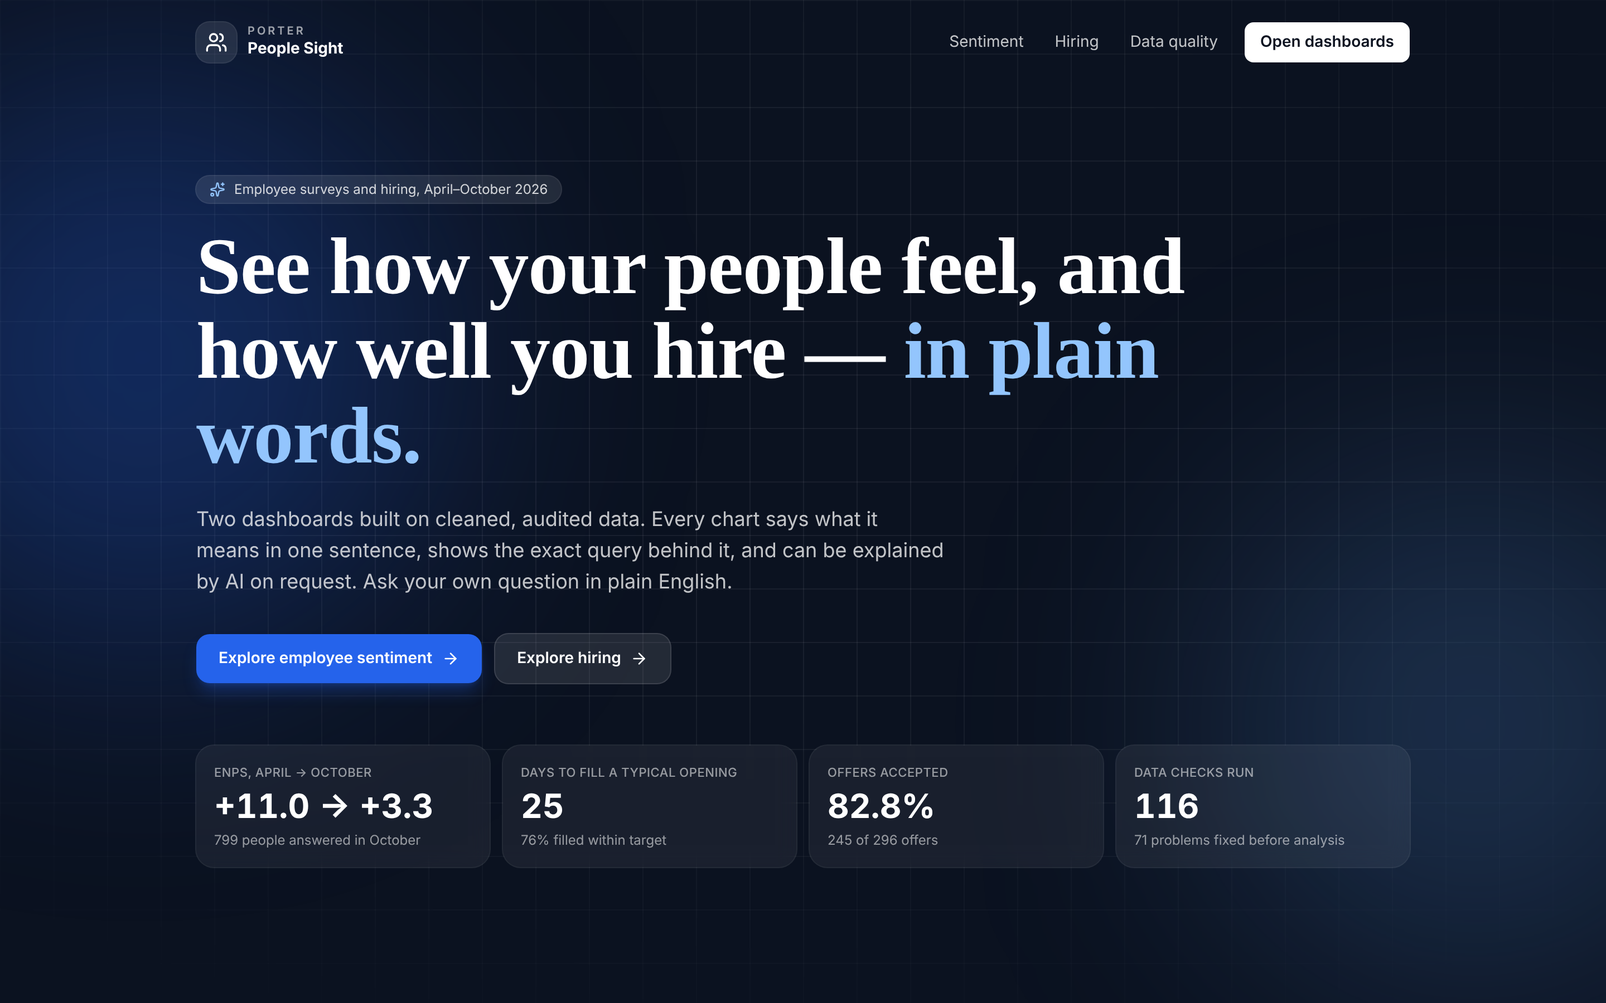
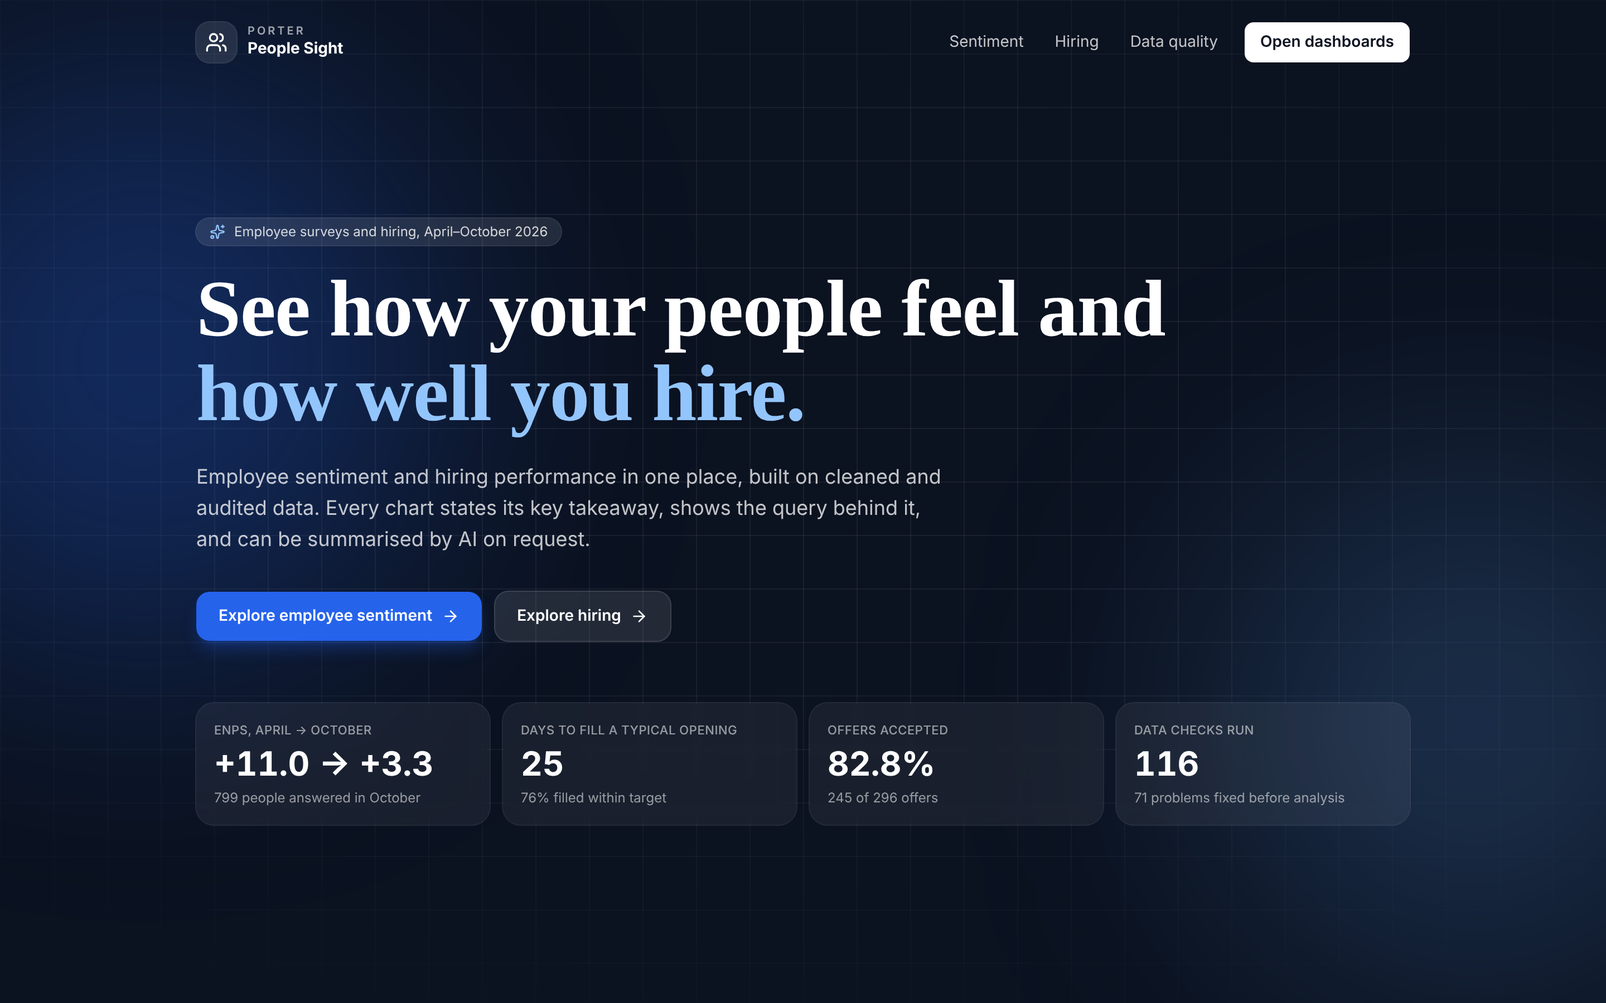
Copy: remove em dashes and repeated plain-language wording; refresh screenshots

diff --git a/frontend/src/pages/Landing.jsx b/frontend/src/pages/Landing.jsx
@@ -57,11 +57,11 @@ export default function Landing() {
               <Sparkles className="h-3.5 w-3.5 text-[#93C5FD]" /> Employee surveys and hiring, April–October 2026
             </motion.div>
             <motion.h1 variants={item} className="font-display max-w-4xl text-[40px] font-semibold leading-[1.05] sm:text-6xl lg:text-7xl">
-              See how your people feel, and how well you hire — <span className="text-[#93C5FD]">in plain words.</span>
+              See how your people feel and <span className="text-[#93C5FD]">how well you hire.</span>
             </motion.h1>
             <motion.p variants={item} className="mt-6 max-w-2xl text-base leading-7 text-white/75 sm:text-lg">
-              Two dashboards built on cleaned, audited data. Every chart says what it means in one sentence, shows the exact
-              query behind it, and can be explained by AI on request. Ask your own question in plain English.
+              Employee sentiment and hiring performance in one place, built on cleaned and audited data. Every chart states its
+              key takeaway, shows the query behind it, and can be summarised by AI on request.
             </motion.p>
             <motion.div variants={item} className="mt-8 flex flex-wrap gap-3">
               <Link to="/sentiment" className="group inline-flex items-center gap-2 rounded-xl bg-[#2563EB] px-5 py-3 text-sm font-semibold shadow-lg shadow-[#2563EB]/30 hover:bg-[#1D4ED8]">
@@ -88,10 +88,10 @@ export default function Landing() {
       {/* ── findings ─────────────────────────────────────────────────────── */}
       <section className="mx-auto max-w-6xl px-5 py-20 sm:px-8">
         <FadeIn>
-          <div className="text-xs font-semibold uppercase tracking-[0.18em] text-accent">What the data says</div>
-          <h2 className="font-display mt-2 max-w-3xl text-3xl font-semibold leading-tight sm:text-4xl">The findings, without the jargon</h2>
+          <div className="text-xs font-semibold uppercase tracking-[0.18em] text-accent">Key findings</div>
+          <h2 className="font-display mt-2 max-w-3xl text-3xl font-semibold leading-tight sm:text-4xl">What the data shows</h2>
           <p className="mt-3 max-w-2xl text-sm leading-6 text-muted">
-            Written by code from the same data as the dashboards, so they always match. Open a dashboard to see the evidence behind each one.
+            Generated from the same data as the dashboards, so they always match. Open a dashboard to see the evidence behind each one.
           </p>
         </FadeIn>
         {home.loading && !home.data ? (
@@ -122,12 +122,12 @@ export default function Landing() {
         <div className="mx-auto max-w-6xl px-5 py-20 sm:px-8">
           <FadeIn>
             <div className="text-xs font-semibold uppercase tracking-[0.18em] text-accent">How it works</div>
-            <h2 className="font-display mt-2 text-3xl font-semibold leading-tight sm:text-4xl">Numbers you can check, words you can use</h2>
+            <h2 className="font-display mt-2 text-3xl font-semibold leading-tight sm:text-4xl">Built to be trusted and easy to act on</h2>
           </FadeIn>
           <Stagger className="mt-10 grid gap-4 md:grid-cols-3">
             {[
               { icon: ShieldCheck, t: 'Cleaned and audited', d: `${isNum(h.rules) ? fmtInt(h.rules) : 'Every'} checks ran on the raw spreadsheets before any number was calculated. Every fix is logged.`, to: '/data-quality', cta: 'See what we fixed' },
-              { icon: Lightbulb, t: 'Explained in one sentence', d: 'Each chart opens with what it shows. Want more? “What does this chart say?” gives a short AI explanation from the same numbers.', to: '/sentiment', cta: 'Open a dashboard' },
+              { icon: Lightbulb, t: 'Clear takeaways', d: 'Each chart opens with its key takeaway. “What does this chart say?” adds a short AI summary based on the same numbers.', to: '/sentiment', cta: 'Open a dashboard' },
               { icon: Code2, t: 'Fully transparent', d: 'Every chart shows the exact SQL behind it, and small groups (under 5 people) are hidden to protect anonymity.', to: '/hiring', cta: 'Try it on hiring' },
             ].map((c) => (
               <motion.div key={c.t} variants={item} className="card flex flex-col p-6">
@@ -146,7 +146,7 @@ export default function Landing() {
                 <div>
                   <h3 className="text-lg font-semibold">Ask the data a question</h3>
                   <p className="mt-1 max-w-xl text-sm leading-6 text-white/70">
-                    “Which teams are least positive?” “How long does hiring take by grade?” Get a chart, a one-line explanation and the query — read-only, and survey answers stay anonymous.
+                    “Which teams are least positive?” “How long does hiring take by grade?” Get a chart, a one-line summary and the query behind it. Queries are read-only and survey answers stay anonymous.
                   </p>
                 </div>
               </div>

diff --git a/frontend/src/pages/Hiring.jsx b/frontend/src/pages/Hiring.jsx
@@ -17,8 +17,8 @@ import {
   agingOption, funnelOption, interviewersOption, monthLabel, monthlyOption, offersOption, stageTimeOption, ttfGradeOption,
 } from './hiringCharts';
 
-const days = (v) => (isNum(v) ? `${Number.isInteger(v) ? v : v.toFixed(1)} d` : '—');
-const inr = (v) => (isNum(v) && v > 0 ? `₹${Math.round(v).toLocaleString('en-IN')}` : '—');
+const days = (v) => (isNum(v) ? `${Number.isInteger(v) ? v : v.toFixed(1)} d` : '–');
+const inr = (v) => (isNum(v) && v > 0 ? `₹${Math.round(v).toLocaleString('en-IN')}` : '–');
 
 export default function Hiring() {
   const { filters, drill } = useFilters();
@@ -60,7 +60,7 @@ export default function Hiring() {
     const d = offSum.data?.find((r) => r.outcome === 'Declined');
     if (!a || !d) return null;
     return `Median offered ÷ expected CTC: accepted ${a.median_offer_to_expected.toFixed(2)} (n = ${fmtInt(a.n)}) vs declined ${d.median_offer_to_expected.toFixed(2)} (n = ${fmtInt(d.n)}). `
-      + `Median offered ÷ budget max: ${a.median_offer_to_budget.toFixed(2)} vs ${d.median_offer_to_budget.toFixed(2)} — offers sit well under budget.`;
+      + `Median offered ÷ budget max: ${a.median_offer_to_budget.toFixed(2)} vs ${d.median_offer_to_budget.toFixed(2)}. Offers sit well under budget.`;
   })();
 
   return (
@@ -149,7 +149,7 @@ export default function Hiring() {
         <Panel className="lg:col-span-12" title="Recruiters: fair comparison per assigned req, plus attainment vs target" height={0}
           subtitle="Compare recruiters on the per-req columns (filled %, median TTF, % within SLA, accepted offers per req). Attainment = accepted offers per month (Apr–Oct, 7 months) ÷ monthly target, shown counting all accepted offers and excluding backed-out candidates. Click a row to filter."
           n={fair.n} insightRows={fair.data} takeaway={fair.takeaway} nLabel="n reqs" sql={fair.sql} loading={fair.loading || attain.loading} error={fair.error || attain.error} empty={empty(fair)}
-          footer={<p className="mt-2 text-[11px] leading-4 text-muted"><b>Note:</b> attainment depends on how many reqs a recruiter is given — a recruiter with few reqs cannot reach a fixed monthly offer target, so low attainment can mean low load rather than low performance.</p>}>
+          footer={<p className="mt-2 text-[11px] leading-4 text-muted"><b>Note:</b> attainment depends on how many reqs a recruiter is given; a recruiter with few reqs cannot reach a fixed monthly offer target, so low attainment can mean low load rather than low performance.</p>}>
           {() => fair.data && (
             <DataTable rows={recruiterRows} dense rowKey={(r) => r.recruiter} onRowClick={(r) => drill({ recruiter: r.recruiter })}
               defaultSort={{ key: 'reqs_assigned', dir: 'desc' }}
@@ -160,7 +160,7 @@ export default function Hiring() {
                 { key: 'median_ttf_days', label: 'Median TTF', headWidth: 64, align: 'right', format: days },
                 { key: 'pct_filled_within_sla', label: 'Filled within SLA', headWidth: 72, align: 'right', format: (v) => fmtPct(v) },
                 { key: 'open_past_sla', label: 'Open past SLA', headWidth: 64, align: 'right', format: fmtInt },
-                { key: 'accepted_per_assigned_req', label: 'Accepted offers per req', headWidth: 84, align: 'right', format: (v) => (isNum(v) ? v.toFixed(2) : '—') },
+                { key: 'accepted_per_assigned_req', label: 'Accepted offers per req', headWidth: 84, align: 'right', format: (v) => (isNum(v) ? v.toFixed(2) : '–') },
                 { key: 'monthly_offer_target', label: 'Target per month', headWidth: 64, align: 'right', format: fmtInt },
                 { key: 'attainment_all_pct', label: 'Attainment (all accepted)', headWidth: 96, align: 'right', format: (v) => fmtPct(v), bar: { max: 100, color: p.accent } },
                 { key: 'attainment_excl_bo_pct', label: 'Attainment (excl. backed out)', headWidth: 96, align: 'right', format: (v) => fmtPct(v) },

diff --git a/frontend/src/pages/sentimentCharts.js b/frontend/src/pages/sentimentCharts.js
@@ -29,7 +29,7 @@ export function dumbbellOption(rows, p, { mobile }) {
         return tipHead(r.segment)
           + tipRow('April eNPS', `${scoreOr(r.enps_apr, r.suppressed_apr)} (n = ${fmtInt(r.n_apr)})`)
           + tipRow('October eNPS', `${scoreOr(r.enps_oct, r.suppressed_oct)} (n = ${fmtInt(r.n_oct)})`)
-          + tipRow('Change', isNum(r.enps_change) ? `${fmtSigned(r.enps_change)} pts` : '—')
+          + tipRow('Change', isNum(r.enps_change) ? `${fmtSigned(r.enps_change)} pts` : '–')
           + tipRow('Response rate Apr / Oct', `${fmtPct(r.response_rate_apr_pct)} / ${fmtPct(r.response_rate_oct_pct)}`)
           + (low(r) ? lowNote : '') + '<div style="margin-top:4px;opacity:.6;font-size:11px">Click to drill down</div>';
       },
@@ -94,9 +94,9 @@ export function driversOption(rows, p, { mobile }) {
       formatter: (prm) => {
         const r = prm.data.r;
         if (!r) return '';
-        return tipHead(`${DRIVER_LABEL(r)} — ${prm.seriesName}`)
+        return tipHead(`${DRIVER_LABEL(r)} · ${prm.seriesName}`)
           + tipRow('% favourable (4–5)', scoreOr(r.pct_favourable, r.suppressed, fmtPct))
-          + tipRow('Mean score (1–5)', scoreOr(r.mean_score, r.suppressed, (v) => (isNum(v) ? v.toFixed(2) : '—')))
+          + tipRow('Mean score (1–5)', scoreOr(r.mean_score, r.suppressed, (v) => (isNum(v) ? v.toFixed(2) : '–')))
           + tipRow('n answering', fmtInt(r.n));
       },
     },
@@ -189,7 +189,7 @@ export function themesOption(rows, p) {
       formatter: (prm) => {
         const r = prm.data.r;
         if (!r) return '';
-        return tipHead(`${r.theme} — ${prm.seriesName}`) + tipRow('% of respondents', scoreOr(r.pct_of_respondents, r.suppressed, fmtPct))
+        return tipHead(`${r.theme} · ${prm.seriesName}`) + tipRow('% of respondents', scoreOr(r.pct_of_respondents, r.suppressed, fmtPct))
           + tipRow('Comments', r.suppressed ? 'n&lt;5' : fmtInt(r.comments)) + tipRow('Respondents (n)', fmtInt(r.n));
       },
     },
@@ -220,7 +220,7 @@ export function mixOption(rows, p) {
       formatter: (ps) => {
         const r = ps[0].data.r;
         if (r.suppressed) return tipHead(ps[0].axisValue) + `n&lt;5 (n = ${r.n})`;
-        return tipHead(`${ps[0].axisValue} — eNPS ${fmtSigned(r.enps)}`) + tipRow('Promoters (9–10)', fmtPct(r.pct_promoters))
+        return tipHead(`${ps[0].axisValue} · eNPS ${fmtSigned(r.enps)}`) + tipRow('Promoters (9–10)', fmtPct(r.pct_promoters))
           + tipRow('Passives (7–8)', fmtPct(r.pct_passives)) + tipRow('Detractors (0–6)', fmtPct(r.pct_detractors))
           + tipRow('Respondents (n)', fmtInt(r.n)) + tipRow('Response rate', fmtPct(r.response_rate_pct)) + (r.low_response ? lowNote : '');
       },
@@ -272,9 +272,9 @@ export function nonResponseOption(rows, p, { mobile }) {
       trigger: 'axis', axisPointer: { type: 'shadow' },
       formatter: (ps) => {
         const r = byName[ps[0].axisValue];
-        return tipHead(`${r.segment} — April eNPS`) + tipRow('Answered October', `${scoreOr(r.apr_enps_oct_respondents, r.n_oct_respondents < 5)} (n = ${fmtInt(r.n_oct_respondents)})`)
+        return tipHead(`${r.segment} · April eNPS`) + tipRow('Answered October', `${scoreOr(r.apr_enps_oct_respondents, r.n_oct_respondents < 5)} (n = ${fmtInt(r.n_oct_respondents)})`)
           + tipRow('Skipped October', `${scoreOr(r.apr_enps_oct_nonrespondents, r.n_oct_nonrespondents < 5)} (n = ${fmtInt(r.n_oct_nonrespondents)})`)
-          + tipRow('Gap (skipped − answered)', isNum(r.gap_nonresp_minus_resp) ? `${fmtSigned(r.gap_nonresp_minus_resp)} pts` : '—')
+          + tipRow('Gap (skipped − answered)', isNum(r.gap_nonresp_minus_resp) ? `${fmtSigned(r.gap_nonresp_minus_resp)} pts` : '–')
           + tipRow('October response rate', fmtPct(r.oct_response_rate_pct)) + (r.low_response ? lowNote : '');
       },
     },

diff --git a/frontend/src/components/AskPanel.jsx b/frontend/src/components/AskPanel.jsx
@@ -10,7 +10,7 @@ import SqlBlock from './SqlBlock';
 import { fmtInt, isNum } from '../lib/format';
 
 /**
- * Ask the Data — slide-in panel.
+ * Ask the Data: slide-in panel.
  * The question goes to POST /api/ask; the backend writes and validates ONE read-only SQL query and runs it.
  * The panel shows the chart Groq specified, the explanation, the exact SQL and the rows.
  */
@@ -82,7 +82,7 @@ export default function AskPanel({ open, onClose }) {
             <div>
               <h2 className="text-sm font-semibold">Ask the data</h2>
               <p className="text-[11px] text-muted">
-                {status == null ? 'Checking…' : status.available ? `Plain English → SQL → chart · ${status.model}` : 'Needs a Groq API key'}
+                {status == null ? 'Checking…' : status.available ? `Question → SQL → chart · ${status.model}` : 'Needs a Groq API key'}
               </p>
             </div>
           </div>
@@ -171,7 +171,7 @@ export default function AskPanel({ open, onClose }) {
                   {res.data.length > 0 && (
                     <DataTable dense maxHeight={240} rows={res.data}
                       columns={res.columns.map((c) => ({ key: c, label: c, align: res.data.some((r) => isNum(r[c])) ? 'right' : 'left',
-                        format: (v, r) => (v == null ? (r.suppressed ? <span className="text-muted">n&lt;5</span> : '—') : typeof v === 'boolean' ? String(v) : isNum(v) ? v.toLocaleString('en-IN', { maximumFractionDigits: 2 }) : String(v)) }))} />
+                        format: (v, r) => (v == null ? (r.suppressed ? <span className="text-muted">n&lt;5</span> : '–') : typeof v === 'boolean' ? String(v) : isNum(v) ? v.toLocaleString('en-IN', { maximumFractionDigits: 2 }) : String(v)) }))} />
                   )}
                 </>
               )}

diff --git a/frontend/src/pages/hiringCharts.js b/frontend/src/pages/hiringCharts.js
@@ -5,7 +5,7 @@ const tipRow = (label, value) => `<div style="display:flex;justify-content:space
 const tipHead = (t) => `<div style="font-weight:600;margin-bottom:4px">${t}</div>`;
 const MONTHS = { '01': 'Jan', '02': 'Feb', '03': 'Mar', '04': 'Apr', '05': 'May', '06': 'Jun', '07': 'Jul', '08': 'Aug', '09': 'Sep', '10': 'Oct', '11': 'Nov', '12': 'Dec' };
 export const monthLabel = (m) => (m ? `${MONTHS[m.slice(5, 7)]} ${m.slice(2, 4)}` : '');
-const days = (v) => (isNum(v) ? `${Number.isInteger(v) ? v : v.toFixed(1)} d` : '—');
+const days = (v) => (isNum(v) ? `${Number.isInteger(v) ? v : v.toFixed(1)} d` : '–');
 
 /** (1) Monthly: reqs raised (bars) vs offers accepted and joins (lines). */
 export function monthlyOption(rows, p) {
@@ -141,7 +141,7 @@ export function offersOption(rows, p) {
       formatter: (prm) => {
         const r = rows[prm.dataIndex];
         return tipHead(`Offered ÷ expected CTC ${r.ratio_band}`) + tipRow('Declined', `${fmtPct(r.decline_rate_pct)} (${fmtInt(r.declined)} of ${fmtInt(r.offers)})`)
-          + tipRow('Accepted', fmtInt(r.accepted)) + tipRow('Median offer ÷ budget max', isNum(r.median_offer_to_budget) ? r.median_offer_to_budget.toFixed(2) : '—');
+          + tipRow('Accepted', fmtInt(r.accepted)) + tipRow('Median offer ÷ budget max', isNum(r.median_offer_to_budget) ? r.median_offer_to_budget.toFixed(2) : '–');
       },
     },
     xAxis: { type: 'category', data: rows.map((r) => r.ratio_band), name: 'Offered CTC ÷ candidate’s expected CTC', nameLocation: 'middle', nameGap: 26 },

diff --git a/frontend/src/components/Panel.jsx b/frontend/src/components/Panel.jsx
@@ -10,7 +10,7 @@ import { FadeIn } from '../lib/motion';
 export const CHART_H = 300;
 
 /**
- * Chart card. Shows: title + plain-language subtitle, a "What this shows" sentence written by the backend from the
+ * Chart card. Shows: title + subtitle, a "What this shows" sentence written by the backend from the
  * same rows (always available, no AI), an optional "What does this chart say?" AI explanation (only when Groq is
  * configured; written only from the rows shown), n badge, Show SQL, enlarge, and loading / error / empty states.
  * `children` may be a function (height) => node so the same chart can render inside the zoom modal.
@@ -73,7 +73,7 @@ export default function Panel({
             {canExplain && (
               <button onClick={explain} disabled={aiLoading}
                 className="flex items-center gap-1 rounded-full border border-accent/40 bg-accent-soft px-2.5 py-0.5 text-[11px] font-medium text-accent hover:border-accent disabled:opacity-60"
-                title="Get a plain-English explanation of this chart">
+                title="Get a short summary of this chart">
                 <Sparkles className="h-3 w-3" /> What does this chart say?
               </button>
             )}

diff --git a/frontend/src/lib/format.js b/frontend/src/lib/format.js
@@ -1,8 +1,8 @@
-// Display formatting only — no metric maths happens in the frontend.
+// Display formatting only; no metric maths happens in the frontend.
 export const isNum = (v) => typeof v === 'number' && Number.isFinite(v);
-export const fmtInt = (v) => (isNum(v) ? Math.round(v).toLocaleString('en-IN') : '—');
-export const fmtNum = (v, d = 1) => (isNum(v) ? v.toFixed(d) : '—');
-export const fmtSigned = (v, d = 1) => (isNum(v) ? `${v > 0 ? '+' : v < 0 ? '−' : ''}${Math.abs(v).toFixed(d)}` : '—');
-export const fmtPct = (v, d = 1) => (isNum(v) ? `${v.toFixed(d)}%` : '—');
-export const fmtINRLakh = (v) => (isNum(v) ? `₹${v.toFixed(2)} L` : '—');
+export const fmtInt = (v) => (isNum(v) ? Math.round(v).toLocaleString('en-IN') : '–');
+export const fmtNum = (v, d = 1) => (isNum(v) ? v.toFixed(d) : '–');
+export const fmtSigned = (v, d = 1) => (isNum(v) ? `${v > 0 ? '+' : v < 0 ? '−' : ''}${Math.abs(v).toFixed(d)}` : '–');
+export const fmtPct = (v, d = 1) => (isNum(v) ? `${v.toFixed(d)}%` : '–');
+export const fmtINRLakh = (v) => (isNum(v) ? `₹${v.toFixed(2)} L` : '–');
 export const truncate = (s, n = 18) => (s && s.length > n ? `${s.slice(0, n - 1)}…` : s ?? '');

diff --git a/frontend/src/pages/DataQuality.jsx b/frontend/src/pages/DataQuality.jsx
@@ -35,7 +35,7 @@ export default function DataQuality() {
     <div className="mx-auto max-w-[1400px] space-y-6 p-3 sm:p-5 lg:p-8">
       <PageHeader eyebrow="Data quality" title="Can you trust these numbers?">
         Before any number on this site was calculated, the raw spreadsheets were checked and cleaned. This page explains
-        what we found and fixed, in plain words. Every step is recorded, so anyone can audit it.
+        what we found and fixed. Every step is recorded, so anyone can audit it.
       </PageHeader>
 
       <div className="flex flex-wrap gap-2">
@@ -153,7 +153,7 @@ export default function DataQuality() {
                       { key: 'issue', label: 'What we found', wrap: 250 },
                       { key: 'rows_affected', label: 'Rows', align: 'right', format: fmtInt },
                       { key: 'treatment', label: 'What we did', wrap: 210 },
-                      { key: 'assumption', label: 'Why / assumption', wrap: 230, format: (v) => v || '—' },
+                      { key: 'assumption', label: 'Why / assumption', wrap: 230, format: (v) => v || '–' },
                     ]} />
                 )}
               </div>

diff --git a/frontend/src/components/KeyTakeaways.jsx b/frontend/src/components/KeyTakeaways.jsx
@@ -10,7 +10,7 @@ const TONE = {
   neutral: { icon: Info, cls: 'text-accent', ring: 'bg-accent-soft' },
 };
 
-/** Three plain-language headline sentences for a page, written by the backend from the metric SQL (with filters). */
+/** Three headline takeaways for a page, written by the backend from the metric SQL (with filters). */
 export default function KeyTakeaways({ endpoint }) {
   const { filters, drill } = useFilters();
   const t = useApi(endpoint, { filters });
@@ -18,7 +18,7 @@ export default function KeyTakeaways({ endpoint }) {
   return (
     <section aria-label="Key takeaways">
       <div className="mb-2 flex items-baseline gap-2">
-        <h2 className="text-xs font-semibold uppercase tracking-[0.14em] text-muted">In plain words</h2>
+        <h2 className="text-xs font-semibold uppercase tracking-[0.14em] text-muted">Key takeaways</h2>
         <span className="text-[11px] text-muted">updates with your filters</span>
       </div>
       {t.loading && !t.data ? (

diff --git a/frontend/src/pages/Sentiment.jsx b/frontend/src/pages/Sentiment.jsx
@@ -85,7 +85,7 @@ export default function Sentiment() {
           value={fmtSigned(k.enps_apr)} suppressed={kpis.data && !isNum(k.enps_apr)} tone={k.enps_apr < 0 ? 'negative' : undefined}
           note={`n = ${fmtInt(k.n_apr)} respondents`} />
         <Metric label="Change" icon={TrendingDown} loading={kpis.loading && !kpis.data}
-          value={isNum(k.enps_change) ? `${fmtSigned(k.enps_change)} pts` : '—'} tone={k.enps_change < 0 ? 'negative' : 'accent'}
+          value={isNum(k.enps_change) ? `${fmtSigned(k.enps_change)} pts` : '–'} tone={k.enps_change < 0 ? 'negative' : 'accent'}
           note="October minus April"
           sub={isNum(pn.enps_change) ? `Same ${fmtInt(pn.n)} people: ${fmtSigned(pn.enps_change)} pts` : `Both-wave panel: n = ${fmtInt(pn.n)}`} />
         <Metric label="Response rate" icon={Users} loading={kpis.loading && !kpis.data}

diff --git a/frontend/src/components/DataTable.jsx b/frontend/src/components/DataTable.jsx
@@ -53,7 +53,7 @@ export default function DataTable({ columns, rows = [], onRowClick, defaultSort,
               className={`border-b border-border last:border-0 ${onRowClick ? 'cursor-pointer hover:bg-accent-soft/50' : ''} ${highlight?.(r) ? 'bg-warn-soft/40' : ''}`}>
               {columns.map((c) => {
                 const v = r[c.key];
-                const content = c.format ? c.format(v, r) : (v ?? '—');
+                const content = c.format ? c.format(v, r) : (v ?? '–');
                 return (
                   <td key={c.key} className={`${pad} align-middle tabular-nums ${c.align === 'right' ? 'text-right' : 'text-left'} ${c.wrap ? 'whitespace-normal' : 'whitespace-nowrap'}`}
                     style={c.wrap ? { maxWidth: c.wrap, minWidth: Math.min(c.wrap, 90) } : undefined}>

diff --git a/frontend/src/components/SqlBlock.jsx b/frontend/src/components/SqlBlock.jsx
@@ -16,7 +16,7 @@ export default function SqlBlock({ sql }) {
       <button onClick={copy} className="absolute right-2 top-2 flex items-center gap-1 rounded-md border border-border bg-surface px-2 py-1 text-[11px] text-muted hover:text-primary">
         {copied ? <Check className="h-3 w-3" /> : <Copy className="h-3 w-3" />} {copied ? 'Copied' : 'Copy'}
       </button>
-      <pre className="sql max-h-64 overflow-auto whitespace-pre p-3 pr-20 text-primary">{sql || '—'}</pre>
+      <pre className="sql max-h-64 overflow-auto whitespace-pre p-3 pr-20 text-primary">{sql || '–'}</pre>
     </div>
   );
 }
